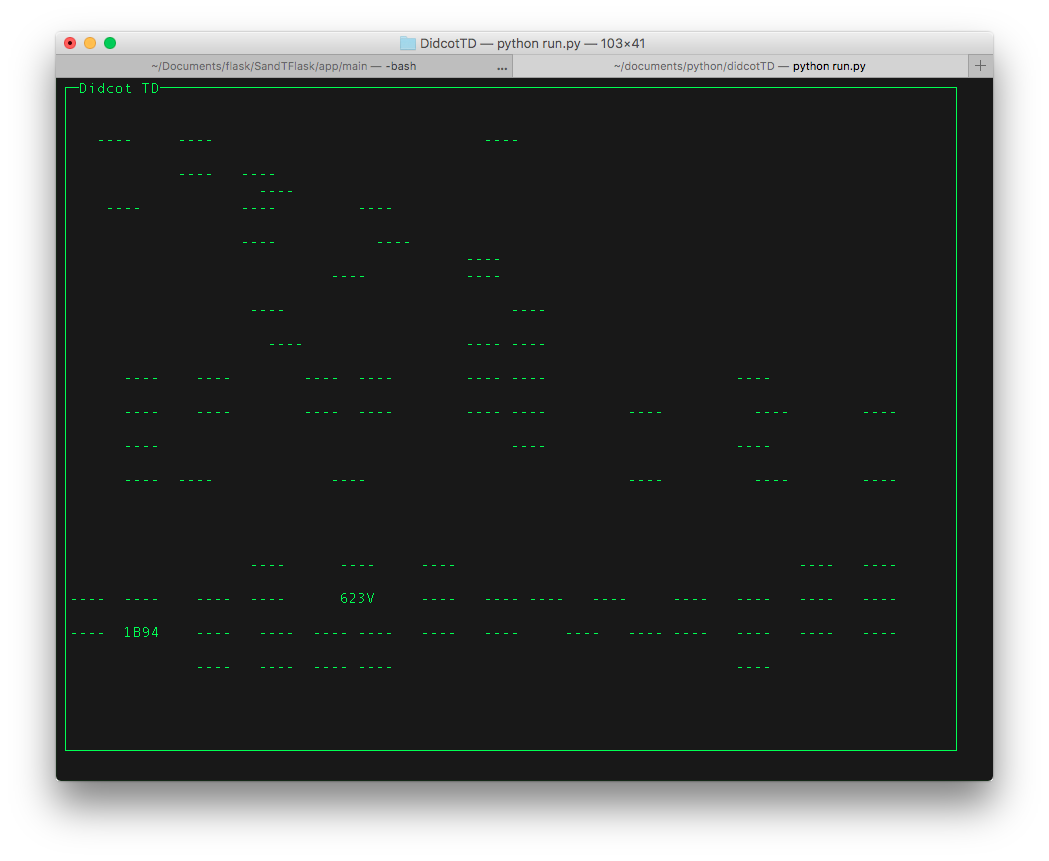
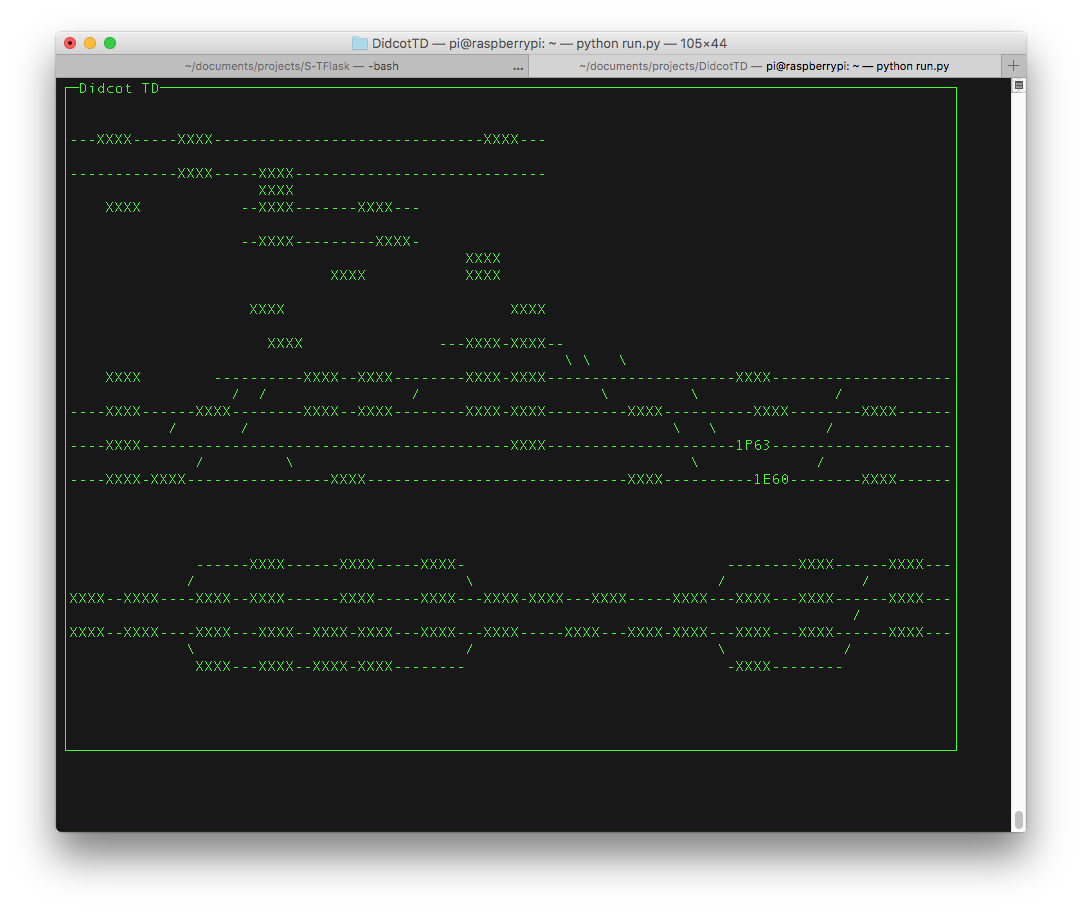
more gui added

diff --git a/DidcotGui.py b/DidcotGui.py
@@ -1,9 +1,8 @@
 from Berth import Berth
 
-tile = '-'
+
 
 class DidcotGui(object):
-
 
     def __init__(self, win):
       self.b1014 = Berth('1014', 30, 1)
@@ -18,8 +17,8 @@ class DidcotGui(object):
       self.b0966 = Berth('0966', 30, 68)
       self.b0965 = Berth('0965', 30, 75)
       self.b0952 = Berth('0952', 30, 82)
-      self.b0949 = Berth('0949', 30, 89)
-      self.b0947 = Berth('0947', 32, 89)
+      self.b0949 = Berth('0949', 30, 92)
+      self.b0947 = Berth('0947', 32, 92)
       self.b0950 = Berth('0950', 32, 82)
       self.b0963 = Berth('0963', 32, 75)
       self.b0964 = Berth('0964', 32, 68)
@@ -32,7 +31,7 @@ class DidcotGui(object):
       self.b0999 = Berth('0999', 32, 22)
       self.b1003 = Berth('1003', 32, 15)
       self.b1007 = Berth('1007', 32, 7)
-      self.b0951 = Berth('0951', 28, 89)
+      self.b0951 = Berth('0951', 28, 92)
       self.b0954 = Berth('0954', 28, 82)
       self.b0961 = Berth('0961', 34, 75)
       self.b0987 = Berth('0987', 34, 33)
@@ -57,11 +56,11 @@ class DidcotGui(object):
       self.b0918 = Berth('0918', 15, 50)
       self.b0920 = Berth('0920', 13, 50)
       self.b0931 = Berth('0931', 23, 30)
-      self.b0941 = Berth('0941', 23, 13)
-      self.b0936 = Berth('0936', 23, 7)
-      self.b0938 = Berth('0938', 21, 7)
-      self.b0940 = Berth('0940', 19, 7)
-      self.b0942 = Berth('0942', 17, 7)
+      self.b0941 = Berth('0941', 23, 10)
+      self.b0936 = Berth('0936', 23, 5)
+      self.b0938 = Berth('0938', 21, 5)
+      self.b0940 = Berth('0940', 19, 5)
+      self.b0942 = Berth('0942', 17, 5)
       self.b0921 = Berth('0921', 19, 45)
       self.b0923 = Berth('0923', 17, 45)
       self.b0925 = Berth('0925', 15, 45)
@@ -69,13 +68,12 @@ class DidcotGui(object):
       self.b0926 = Berth('0926', 17, 33)
       self.b0933 = Berth('0933', 19, 27)
       self.b0935 = Berth('0935', 17, 27)
-      self.b0944 = Berth('0944', 17, 15)
       self.b6420 = Berth('6240', 19, 15)
       self.b0922 = Berth('0922', 3, 47)
-      self.b2209 = Berth('2209', 5, 20)
+      self.b2209 = Berth('2209', 5, 22)
       self.b2207 = Berth('2207', 6, 22)
-      self.b2208 = Berth('2208', 7, 20)
-      self.b2205 = Berth('2205', 9, 20)
+      self.b2208 = Berth('2208', 7, 22)
+      self.b2205 = Berth('2205', 9, 22)
       self.b2201 = Berth('2201', 13, 21)
       self.b0937 = Berth('0937', 15, 23)
       self.b0928 = Berth('0928', 7, 33)
@@ -97,7 +95,7 @@ class DidcotGui(object):
         self.b0906, self.b0907, self.b0904, self.b0905, self.b0911, self.b0931 , self.b0941,
         self.b0913, self.b0912, self.b0914, self.b0916, self.b0918, self.b0920, self.b0936, 
         self.b0938, self.b0940, self.b0942, self.b0921, self.b0923, self.b0925, self.b0924, 
-        self.b0926, self.b0933, self.b0935, self.b0944, self.b6420, self.b0922, self.b2209,
+        self.b0926, self.b0933, self.b0935, self.b6420, self.b0922, self.b2209,
         self.b2207, self.b2208, self.b2205, self.b2201, self.b0937, self.b0928, self.b2203,
         self.b6416, self.b6413, self.b6411, self.b2210, self.b2211, self.b2212, self.b2214]
       
@@ -106,6 +104,8 @@ class DidcotGui(object):
 
 
     def drawBerths(self, berths):
+
+
 
       berths = berths
 
@@ -124,23 +124,63 @@ class DidcotGui(object):
 
     def drawFixedMap(self):
 
+      tile = '-'
+      point1 = '/'
+      point2 = '\\'
+      vertical = '|'
+
       self.win.keypad(1)
       self.win.border(0)
       self.win.nodelay(1)
 
       self.win.addstr(0, 2, 'Didcot TD')
 
+      #lines
+
       self.win.addstr(30, 1, tile * 98) #Up Main
       self.win.addstr(21, 1, tile * 98) #Up Main
       self.win.addstr(32, 1, tile * 98) #Dn Main
       self.win.addstr(23, 1, tile * 98) #Dn Main
       self.win.addstr(19, 1, tile * 98) #Dn Relief
-      self.win.addstr(17, 27, tile * 72) #Up Relief
+      self.win.addstr(17, 17, tile * 82) #Up Relief
       self.win.addstr(34, 15, tile * 30) #Dn Relief Wantage
       self.win.addstr(28, 15, tile * 30) #Up Relief Wantage
       self.win.addstr(34, 74, tile * 13) #Dn Milton Loop
       self.win.addstr(28, 74, tile * 25) #Up Milton Loop
       self.win.addstr(3, 1, tile * 53) #Up Oxford / Avoider
       self.win.addstr(5, 1, tile * 53) #Dn Oxford / Avoider
+      self.win.addstr(7, 20, tile * 20) #Up Chester
+      self.win.addstr(9, 20, tile * 20) #Dn Chester
+      self.win.addstr(15, 42, tile * 14) #P5
+
+      #points
+
+      self.win.addstr(29, 14, point1) #UM/UR Challow
+      self.win.addstr(29, 45, point2) #UR/UM Wantage
+      self.win.addstr(33, 14, point2) #DR/DM Challow
+      self.win.addstr(33, 45, point1) #DM/DR Wantage
+      self.win.addstr(29, 73, point1) #UM/UR Milton
+      self.win.addstr(33, 73, point2) #DG/DM Milton
+      self.win.addstr(33, 87, point1) #DM/DG Milton
+      self.win.addstr(31, 88, point1) #DM/UM Milton
+      self.win.addstr(29, 89, point1) #UM/UR Milton2
+      self.win.addstr(20, 12, point1) #UM/UR Foxhall
+      self.win.addstr(20, 20, point1) #UM/UR Foxhall
+      self.win.addstr(22, 15, point1) #DM/UM Foxhall
+      self.win.addstr(22, 25, point2) #DM/UM Foxhall
+      self.win.addstr(18, 19, point1) #UR/UG Foxhall
+      self.win.addstr(18, 22, point1) #UR/UG Foxhall
+      self.win.addstr(18, 86, point1) #DR/UP Moreton Cutting
+      self.win.addstr(20, 85, point1) #UM/DR Moreton Cutting
+      self.win.addstr(22, 84, point1) #UM/DM Moreton Cutting
+      self.win.addstr(22, 70, point2) #UM/DM Didcot East
+      self.win.addstr(18, 70, point2) #UR/DR Didcot East
+      self.win.addstr(20, 68, point2) #DR/UM Didcot East
+      self.win.addstr(20, 72, point2) #DR/UM Didcot East
+      self.win.addstr(18, 60, point2) #DR/UR Didcot East
+      self.win.addstr(16, 58, point2) #DO/DR Didcot East
+      self.win.addstr(16, 62, point2) #UO/UR Didcot East
+      self.win.addstr(16, 56, point2) #P5/UR
+      self.win.addstr(18, 39, point1) #UR/P4 Station
 
       self.win.timeout(200) 
